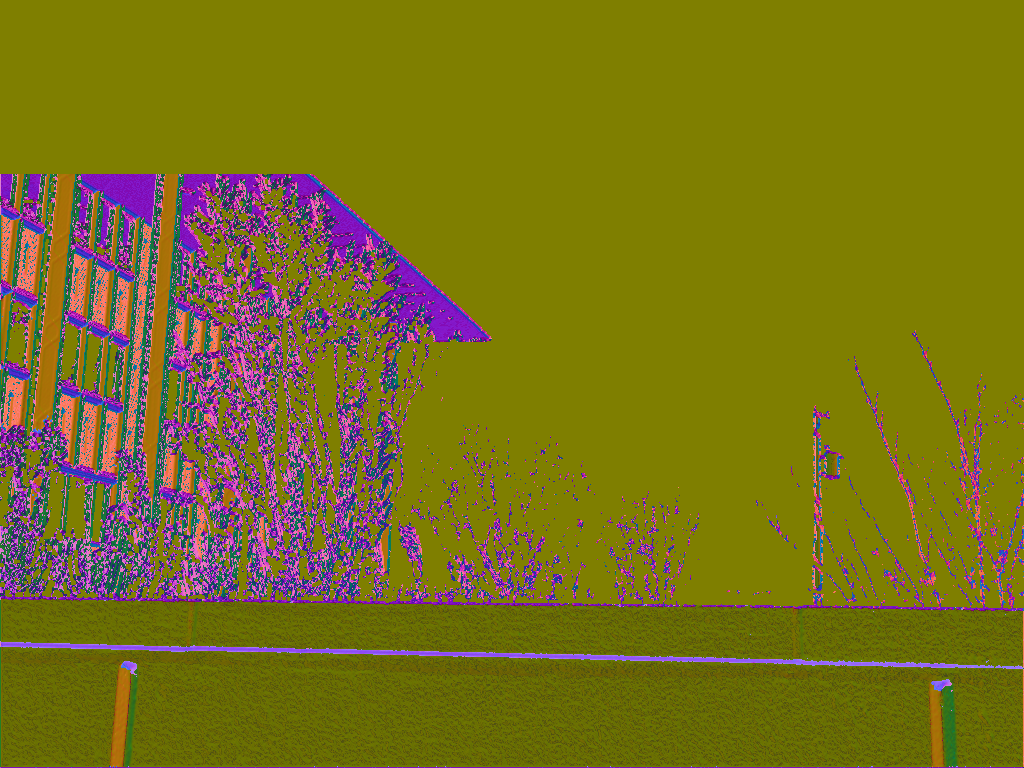
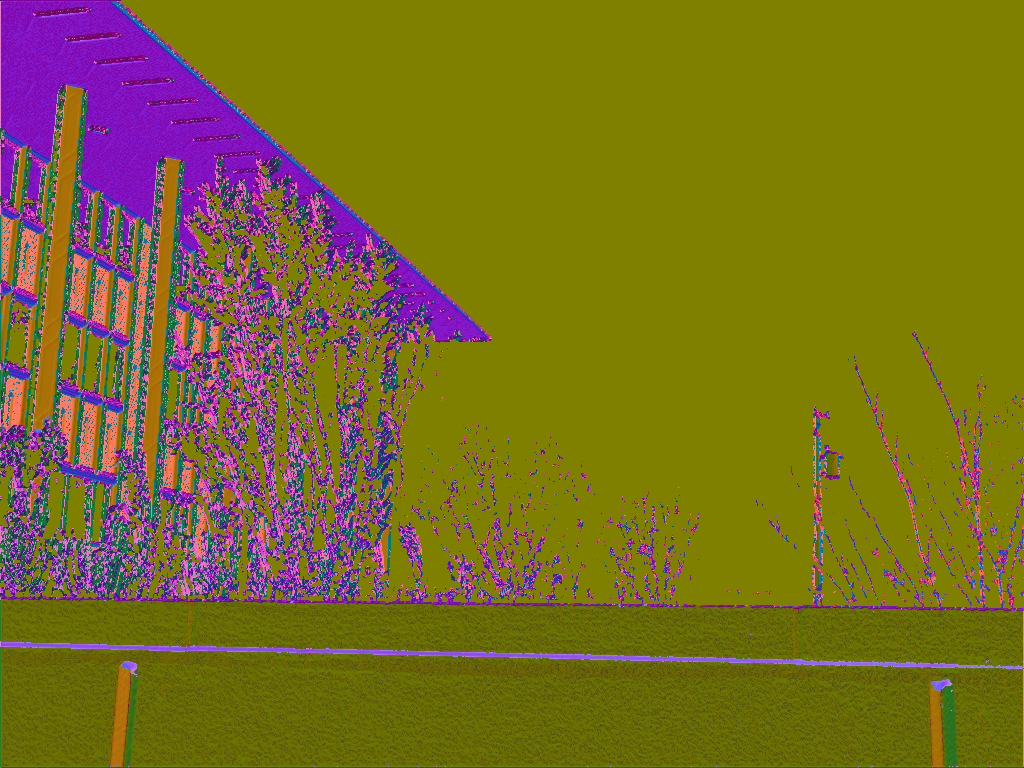
Added the cpp version of SNE

Changed region(s): [[0.0, 0.0, 0.3125, 0.25]]

diff --git a/src/sne/src/surface_normal_estimator.cpp b/src/sne/src/surface_normal_estimator.cpp
@@ -1,6 +1,5 @@
 #include <rclcpp/rclcpp.hpp>
 #include <sensor_msgs/msg/image.hpp>
-
 #include <memory>
 #include <string>
 
@@ -23,13 +22,185 @@ public:
 private:
     void imageCallback(const sensor_msgs::msg::Image::SharedPtr msg)
     {
-        
+        // Extract depth data from the message
+        int height = msg->height;
+        int width = msg->width;
+
+        // Assuming depth image is 32FC1 (float depth values)
+        const float* depth_data = reinterpret_cast<const float*>(msg->data.data());
+
+        // Convert to 2D vector
+        depth.resize(height, std::vector<float>(width));
+        for (int i = 0; i < height; ++i) {
+            for (int j = 0; j < width; ++j) {
+                depth[i][j] = depth_data[i * width + j];
+            }
+        }
+
+        // Set dimensions
+        h = height;
+        w = width;
+
+        // Call SNE method
+        auto normals = SNE(depth, height, width);
+
+        RCLCPP_INFO(get_logger(), "Processed depth image: %dx%d", width, height);
     }
     
-    void processingLoop()
+    std::vector<std::vector<std::vector<float>>> SNE(const std::vector<std::vector<float>>& depth_image, int height, int width)
     {
+        // Input: depth_image - 2D array (height x width)
+        // Input: camParam - 3x3 camera intrinsic matrix
+        // Output: 3-channel surface normal map (3 x height x width)
+
+        int h = height;
+        int w = width;
+
+        // Create coordinate meshgrids
+        std::vector<std::vector<float>> v_map(h, std::vector<float>(w));
+        std::vector<std::vector<float>> u_map(h, std::vector<float>(w));
+        for (int i = 0; i < h; ++i) {
+            for (int j = 0; j < w; ++j) {
+                v_map[i][j] = static_cast<float>(i);
+                u_map[i][j] = static_cast<float>(j);
+            }
+        }
+
+        // Compute X, Y, Z coordinates
+        std::vector<std::vector<float>> Z = depth_image; // h x w
+        std::vector<std::vector<float>> Y(h, std::vector<float>(w));
+        std::vector<std::vector<float>> X(h, std::vector<float>(w));
+        std::vector<std::vector<float>> D(h, std::vector<float>(w));
+
+        for (int i = 0; i < h; ++i) {
+            for (int j = 0; j < w; ++j) {
+                Y[i][j] = Z[i][j] * (v_map[i][j] - camParam[1][2]) / camParam[0][0];
+                X[i][j] = Z[i][j] * (u_map[i][j] - camParam[0][2]) / camParam[0][0];
+                if (std::isnan(Z[i][j])) Z[i][j] = 0;
+                D[i][j] = (Z[i][j] != 0) ? 1.0f / Z[i][j] : 0.0f;
+            }
+        }
+
+        // Define gradient kernels
+        float Gx[3][3] = {{0,0,0},{-1,0,1},{0,0,0}};
+        float Gy[3][3] = {{0,-1,0},{0,0,0},{0,1,0}};
+
+        // Apply convolution for Gu and Gv
+        auto conv2d = [](const std::vector<std::vector<float>>& input, float kernel[3][3], int h, int w) {
+            std::vector<std::vector<float>> output(h, std::vector<float>(w, 0));
+            for (int i = 1; i < h - 1; ++i) {
+                for (int j = 1; j < w - 1; ++j) {
+                    for (int ki = 0; ki < 3; ++ki) {
+                        for (int kj = 0; kj < 3; ++kj) {
+                            output[i][j] += input[i + ki - 1][j + kj - 1] * kernel[ki][kj];
+                        }
+                    }
+                }
+            }
+            return output;
+        };
+
+        auto Gu = conv2d(D, Gx, h, w);
+        auto Gv = conv2d(D, Gy, h, w);
+
+        std::vector<std::vector<float>> nx_t(h, std::vector<float>(w));
+        std::vector<std::vector<float>> ny_t(h, std::vector<float>(w));
+        for (int i = 0; i < h; ++i) {
+            for (int j = 0; j < w; ++j) {
+                nx_t[i][j] = Gu[i][j] * camParam[0][0];
+                ny_t[i][j] = Gv[i][j] * camParam[1][1];
+            }
+        }
+
+        // Compute phi, a, b
+        std::vector<std::vector<float>> phi(h, std::vector<float>(w));
+        for (int i = 0; i < h; ++i) {
+            for (int j = 0; j < w; ++j) {
+                phi[i][j] = std::atan2(ny_t[i][j], nx_t[i][j]) + M_PI;
+            }
+        }
+
+        // Define difference kernels
+        float diffKernelArray[8][9] = {
+            {-1, 0, 0, 0, 1, 0, 0, 0, 0},
+            { 0,-1, 0, 0, 1, 0, 0, 0, 0},
+            { 0, 0,-1, 0, 1, 0, 0, 0, 0},
+            { 0, 0, 0,-1, 1, 0, 0, 0, 0},
+            { 0, 0, 0, 0, 1,-1, 0, 0, 0},
+            { 0, 0, 0, 0, 1, 0,-1, 0, 0},
+            { 0, 0, 0, 0, 1, 0, 0,-1, 0},
+            { 0, 0, 0, 0, 1, 0, 0, 0,-1}
+        };
+
+        std::vector<std::vector<float>> sum_nx(h, std::vector<float>(w, 0));
+        std::vector<std::vector<float>> sum_ny(h, std::vector<float>(w, 0));
+        std::vector<std::vector<float>> sum_nz(h, std::vector<float>(w, 0));
+
+        for (int k = 0; k < 8; ++k) {
+            float diffKernel[3][3];
+            for (int i = 0; i < 3; ++i) {
+                for (int j = 0; j < 3; ++j) {
+                    diffKernel[i][j] = diffKernelArray[k][i * 3 + j];
+                }
+            }
+            
+            auto X_d = conv2d(X, diffKernel, h, w);
+            auto Y_d = conv2d(Y, diffKernel, h, w);
+            auto Z_d = conv2d(Z, diffKernel, h, w);
+            
+            for (int i = 0; i < h; ++i) {
+                for (int j = 0; j < w; ++j) {
+                    float nz_i = (Z_d[i][j] != 0) ? (nx_t[i][j] * X_d[i][j] + ny_t[i][j] * Y_d[i][j]) / Z_d[i][j] : 0;
+                    float norm = std::sqrt(nx_t[i][j] * nx_t[i][j] + ny_t[i][j] * ny_t[i][j] + nz_i * nz_i);
+                    
+                    float nx_t_i = (norm != 0) ? nx_t[i][j] / norm : 0;
+                    float ny_t_i = (norm != 0) ? ny_t[i][j] / norm : 0;
+                    float nz_t_i = (norm != 0) ? nz_i / norm : 0;
+                    
+                    if (std::isnan(nx_t_i)) nx_t_i = 0;
+                    if (std::isnan(ny_t_i)) ny_t_i = 0;
+                    if (std::isnan(nz_t_i)) nz_t_i = 0;
+                    
+                    sum_nx[i][j] += nx_t_i;
+                    sum_ny[i][j] += ny_t_i;
+                    sum_nz[i][j] += nz_t_i;
+                }
+            }
+        }
+
+        // Compute final normals
+        std::vector<std::vector<float>> nx(h, std::vector<float>(w));
+        std::vector<std::vector<float>> ny(h, std::vector<float>(w));
+        std::vector<std::vector<float>> nz(h, std::vector<float>(w));
+
+        for (int i = 0; i < h; ++i) {
+            for (int j = 0; j < w; ++j) {
+                float a = std::cos(phi[i][j]);
+                float b = std::sin(phi[i][j]);
+                float theta = -std::atan((sum_nx[i][j] * a + sum_ny[i][j] * b) / sum_nz[i][j]);
+                
+                nx[i][j] = std::sin(theta) * std::cos(phi[i][j]);
+                ny[i][j] = std::sin(theta) * std::sin(phi[i][j]);
+                nz[i][j] = std::cos(theta);
+                
+                if (std::isnan(nz[i][j])) {
+                    nx[i][j] = 0;
+                    ny[i][j] = 0;
+                    nz[i][j] = -1;
+                }
+                
+                float sign = (ny[i][j] > 0) ? -1.0f : 1.0f;
+                nx[i][j] *= sign;
+                ny[i][j] *= sign;
+                nz[i][j] *= sign;
+            }
+        }
+
+        // Return or store nx, ny, nz as 3-channel output
+        RCLCPP_DEBUG(get_logger(), "Surface normal estimation completed");
         
-        
+        // Return 3-channel normal map as [nx, ny, nz]
+        return {nx, ny, nz};
     }
     
     

diff --git a/src/sne/scripts/run_example.py b/src/sne/scripts/run_example.py
@@ -48,9 +48,10 @@ if __name__ == '__main__':
                                 [0.000000e+00, 7.215377e+02, 1.728540e+02],
                                 [0.000000e+00, 0.000000e+00, 1.000000e+00]], dtype=torch.float32)  # camera parameters
         normal = sne_model(torch.tensor(depth_image.astype(np.float32)/1000), camParam)
+        
         normal_image = normal.cpu().numpy()
         normal_image = np.transpose(normal_image, [1, 2, 0])
-        
+
         # Save as PNG (converted to uint8 in [0, 255] range for visualization)
         images_dir = os.path.join(script_dir, 'images')
         os.makedirs(images_dir, exist_ok=True)
@@ -66,7 +67,7 @@ if __name__ == '__main__':
     
     # Plot depth, ground truth normals, and computed normals side by side
     fig, axes = plt.subplots(6, 3, figsize=(18, 24))
-    
+
     for i in range(6):
         # Plot depth image
         axes[i, 0].imshow(depth_images[i], cmap='viridis')
@@ -90,7 +91,7 @@ if __name__ == '__main__':
         axes[i, 2].imshow(normal_display)
         axes[i, 2].set_title(f'Computed Normal {i+1}')
         axes[i, 2].axis('off')
-    
+
     plt.tight_layout()
     plt.savefig(os.path.join(images_dir, 'depth_normal_comparison.png'), dpi=150, bbox_inches='tight')
     plt.show()

diff --git a/src/sne/scripts/SNE.py b/src/sne/scripts/SNE.py
@@ -19,8 +19,6 @@ class SNE(nn.Module):
         Z = depth   # h, w
         Y = Z.mul((v_map - camParam[1,2])) / camParam[0,0]  # h, w
         X = Z.mul((u_map - camParam[0,2])) / camParam[0,0]  # h, w
-        Z[Y <= 0] = 0
-        Y[Y <= 0] = 0
         Z[torch.isnan(Z)] = 0
         D = torch.div(torch.ones(h, w), Z)  # h, w
 
